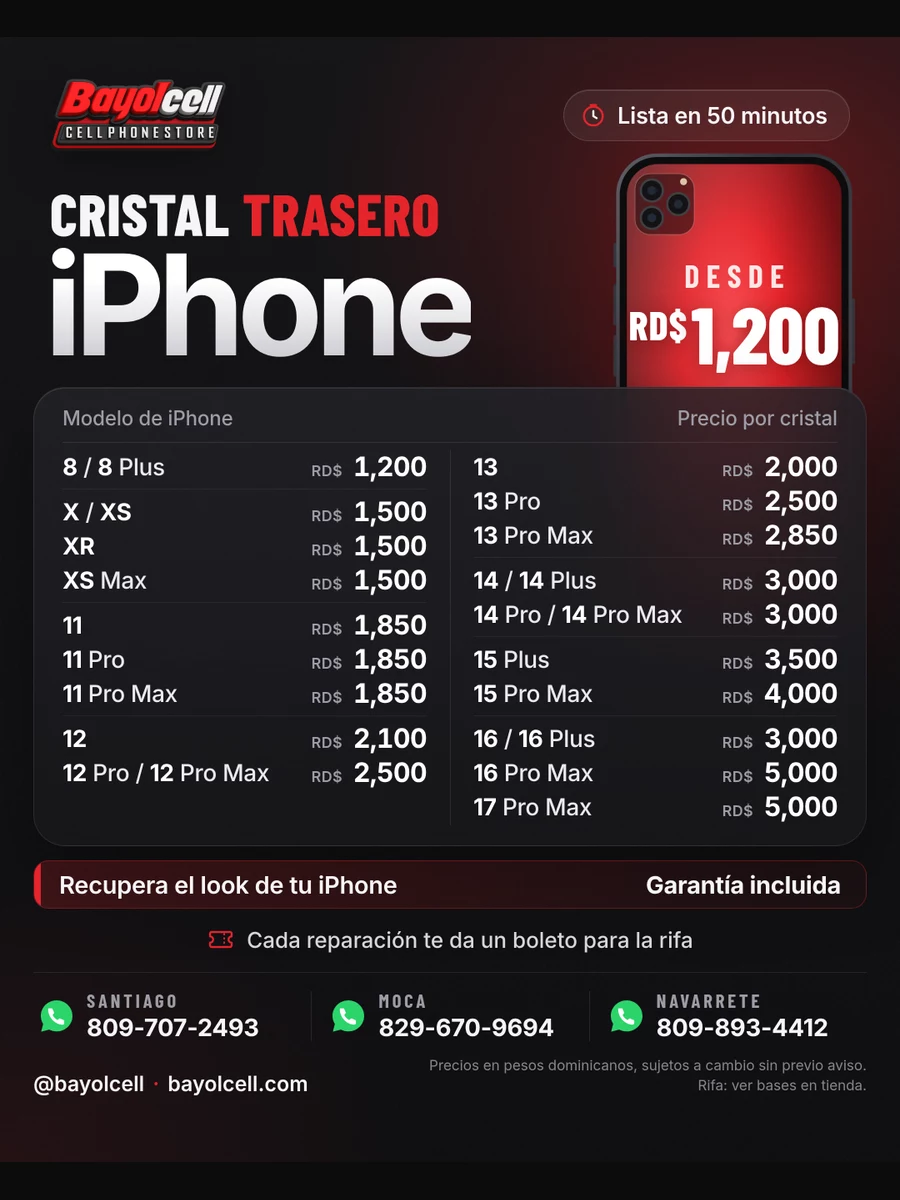
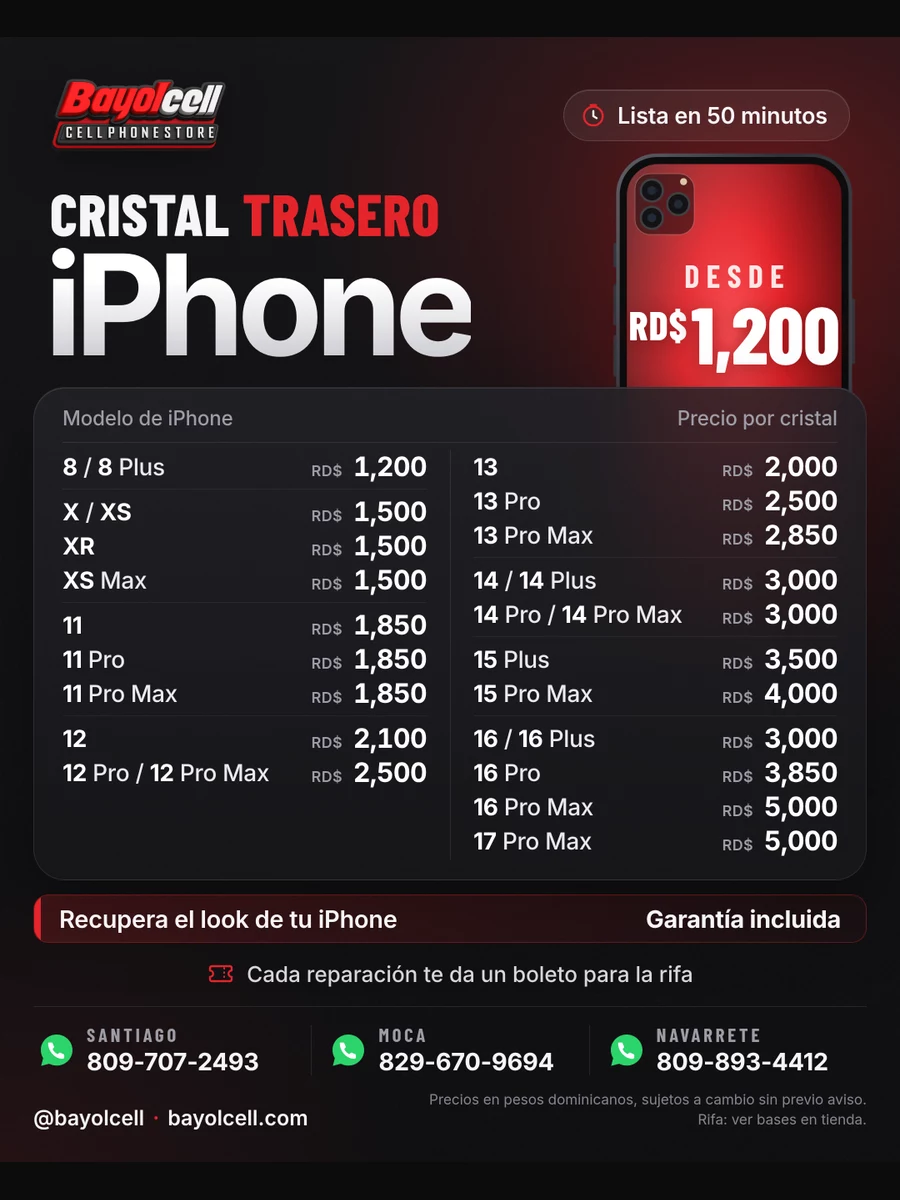
Cristal trasero: agrega 16 Pro (RD$3,850) tras verificar nivel 1 en vivo; bitácora de la verificación
Claude-Session: https://claude.ai/code/session_01XsqePqNsr899Mjtsv3s8DJ

Changed region(s): [[0.0311, 0.6167, 0.9644, 0.9558], [0.84, 0.6167, 0.9022, 0.6475]]

diff --git a/herramientas/kit-catalogo/flyer-reparaciones/flyer.html b/herramientas/kit-catalogo/flyer-reparaciones/flyer.html
@@ -270,7 +270,7 @@ const DATOS = {
       [["13",2000],["13 Pro",2500],["13 Pro Max",2850]],
       [["14 / 14 Plus",3000],["14 Pro / 14 Pro Max",3000]],
       [["15 Plus",3500],["15 Pro Max",4000]],
-      [["16 / 16 Plus",3000],["16 Pro Max",5000],["17 Pro Max",5000]],
+      [["16 / 16 Plus",3000],["16 Pro",3850],["16 Pro Max",5000],["17 Pro Max",5000]],
     ],
   },
 }[tipo];

diff --git a/docs/bitacora/2026-10-13-1215-claude-verificacion-nivel1-flyers.md b/docs/bitacora/2026-10-13-1215-claude-verificacion-nivel1-flyers.md
@@ -1,0 +1,19 @@
+# 2026-10-13 12:15 — Claude: verificación de nivel 1 para las imágenes de batería y cristal trasero
+
+Sigue a `2026-10-13-1300-claude-flyers-bateria-trasero.md`.
+
+## Pedido del dueño
+> «Verifica los precios nivel 1»
+
+## Qué se hizo
+- La copia de los niveles en `infoplus_articulos` era de las 06:00 UTC. Se ejecutó a mano el mismo trabajo diario, `infoplus-precios-diario` (función `infoplus-precios-sync`), que la refresca desde Info Plus. Respuesta: `{"ok":true,"total":2124,"con_multinivel":1760}`, a las 12:12 UTC.
+- Se compararon todos los artículos BATERIA y TAPA de iPhone contra las dos imágenes:
+  - **Batería:** los 23 precios coinciden con el nivel 1. Se usó la calidad «ORIGINAL»; donde no hay ORIGINAL, el artículo sin calidad.
+  - **Cristal trasero:** todos coinciden.
+- **Cambio:** se agregó **16 Pro, RD$3,850** (artículo 2073 «TAPA TRASERA IPHONE 16 PRO GOLD»), que faltaba. Se rehizo `assets/reparacion-cristal-trasero.webp`.
+
+## Siguen pendientes de decisión del dueño
+- **Batería del 11:** solo existe el artículo 2550 «BATERIA IPHONE 11 NORMAL 22222», con nivel 1 = 800. Parece un artículo mal cargado; la imagen vieja decía 1,400.
+- **Cristal trasero 12 Pro / 12 Pro Max:** no hay artículo. La imagen lleva 2,500, el precio de la imagen vieja.
+- **Cristal trasero 15 Plus:** 3,000 en negro y verde, 3,500 en amarillo, azul y rosado. La imagen lleva 3,500.
+- **Otras rarezas (no cambian la imagen):** «TAPA IPHONE XS BLANCA» (2220) está en 3,000 y las demás X/XS en 1,500; «TAPA IPHONE 14 NORMAL BLANCA» (2602) está en 2,500 y las demás 14 en 3,000.
